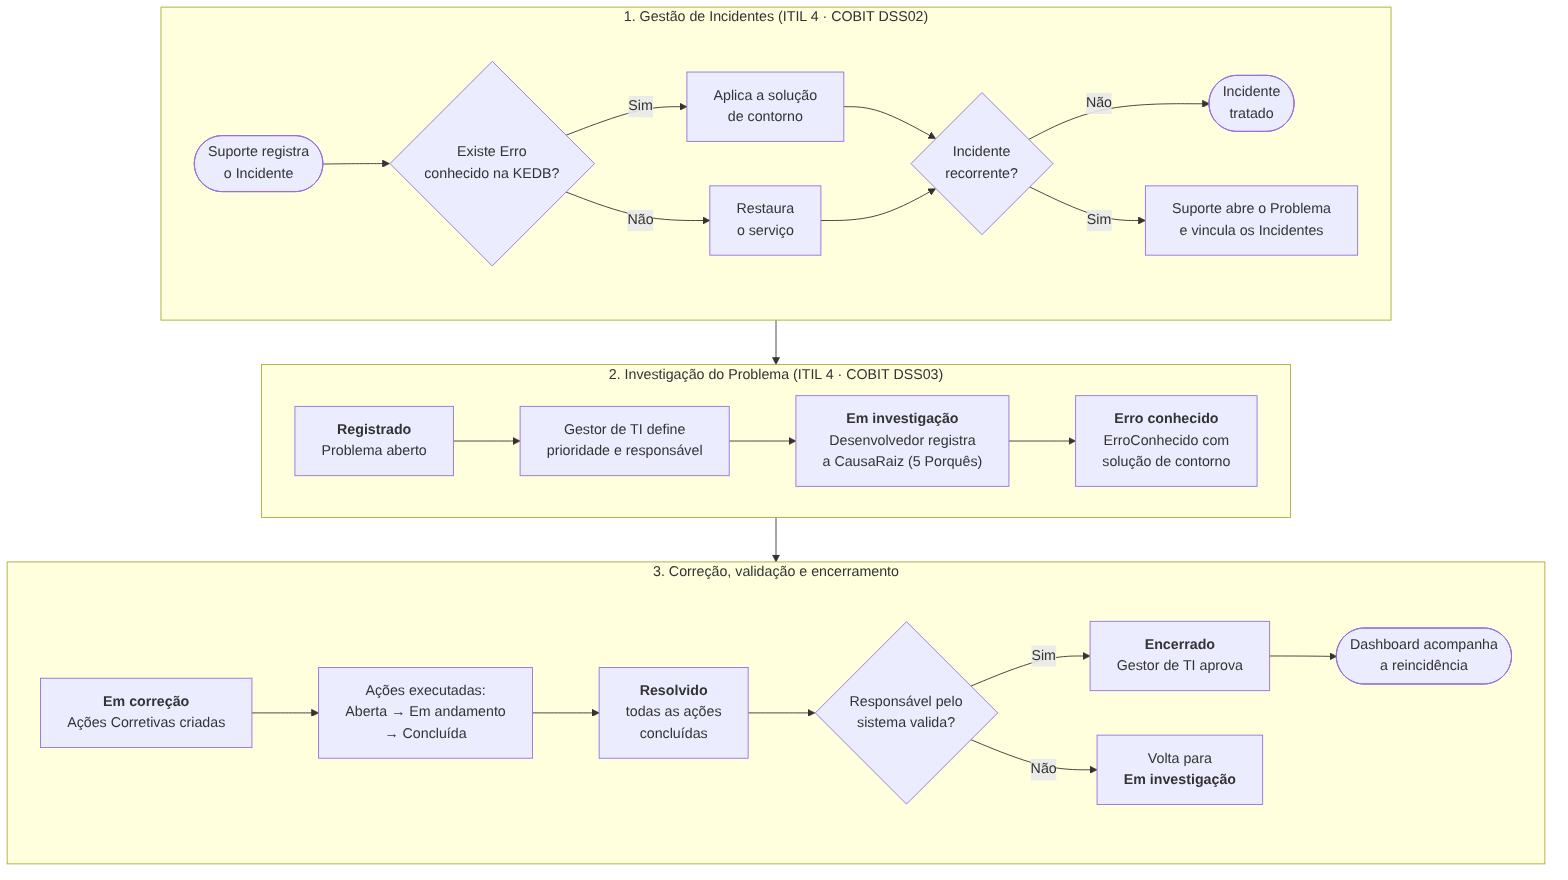
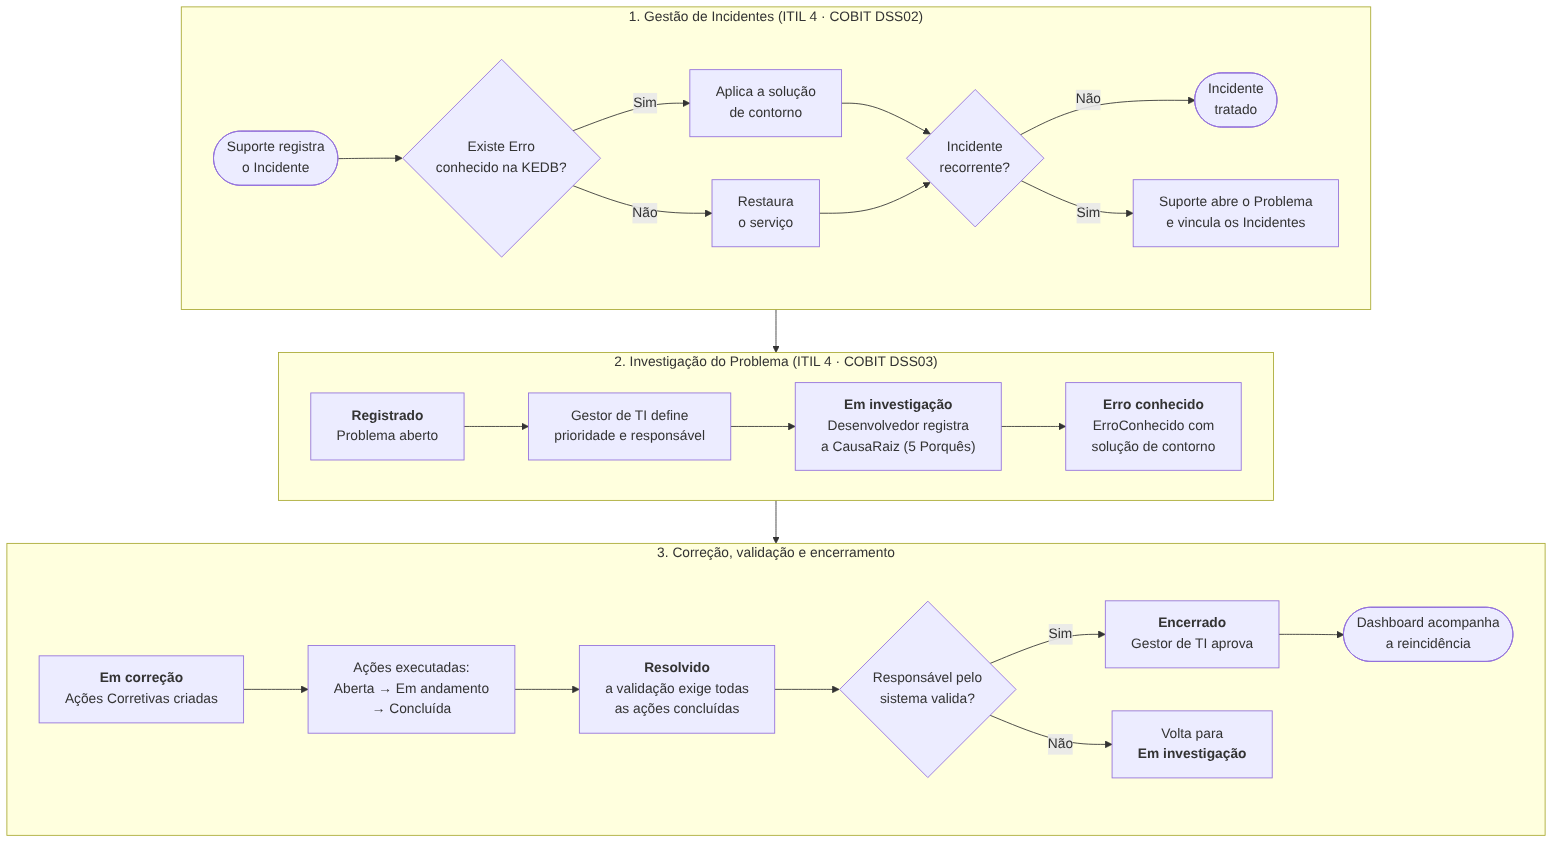
fix(auditoria): contagem de ocorrências no detalhe (RF12) e diagramas alinhados ao sistema
- Detalhe do Problema mostra a quantidade de Incidentes vinculados (cartão e aba), com teste.
- Fluxo: a validação exige todas as ações concluídas (regra de validar_solucao).
- ER: usuário do HistóricoStatus opcional e descrição da ação como texto, como nos modelos.
- EQUIPE.md: responsabilidades de F1 e F2 conforme o que foi implementado.
- README dos diagramas com a numeração das figuras do documento final; Python 3.13.

Claude-Session: https://claude.ai/code/session_018648CV4fji4RfXxjFqXXkM

diff --git a/problemas/templates/problemas/detalhe.html b/problemas/templates/problemas/detalhe.html
@@ -108,6 +108,13 @@
         <strong>Responsável:</strong><br>
         {{ problema.responsavel|default:"Não atribuído" }}
       </div>
+
+      <!-- RF12: contagem de ocorrências (Incidentes vinculados ao Problema) -->
+      <div class="col-md-4 mb-2">
+        <strong>Ocorrências:</strong><br>
+        <span id="contagem-ocorrencias">{{ problema.quantidade_incidentes }}</span>
+        Incidente{{ problema.quantidade_incidentes|pluralize }} vinculado{{ problema.quantidade_incidentes|pluralize }}
+      </div>
     </div>
   </div>
 </div>
@@ -121,7 +128,7 @@
             data-bs-target="#incidentes"
             type="button"
             role="tab">
-      Incidentes vinculados
+      Incidentes vinculados ({{ problema.quantidade_incidentes }})
     </button>
   </li>
 

diff --git a/problemas/test_mvp.py b/problemas/test_mvp.py
@@ -571,6 +571,16 @@ class BackendMvpTests(TestCase):
             404,
         )
 
+    def test_detalhe_mostra_contagem_de_ocorrencias(self):
+        """RF12: o detalhe exibe quantos Incidentes estão vinculados ao Problema."""
+        self.client.force_login(self.responsavel)
+        resposta = self.client.get(reverse("problemas:detalhe", args=[self.problema.pk]))
+        quantidade = self.problema.incidentes.count()
+        self.assertGreater(quantidade, 0)
+        self.assertEqual(resposta.context["problema"].quantidade_incidentes, quantidade)
+        self.assertContains(resposta, f'<span id="contagem-ocorrencias">{quantidade}</span>')
+        self.assertContains(resposta, f"Incidentes vinculados ({quantidade})")
+
     def test_encerramento_revalida_acao_criada_apos_validacao_do_formulario(self):
         self.resolver()
         self.concluir(self.acao())

diff --git a/docs/EQUIPE.md b/docs/EQUIPE.md
@@ -15,8 +15,8 @@
 
 ## Responsabilidades por função
 
-- **F1 - Líder técnico e arquiteto:** stack, repositório, arquitetura, login e perfis, módulo de Problemas e ciclo de status, histórico/auditoria, indicadores, aprovação de encerramento, deploy.
-- **F2 - Back-end e modelo de dados:** modelo de dados, Incidentes, vínculo incidente-problema, causa raiz (5 Porquês), ações corretivas, KEDB, alerta de recorrência.
+- **F1 - Líder técnico e arquiteto:** stack, repositório, arquitetura, login e perfis, controle de acesso, integração contínua, revisão e integração do código, dados de demonstração, documentação técnica e deploy.
+- **F2 - Back-end e modelo de dados:** modelo de dados, Incidentes, Problemas e ciclo de status, vínculo incidente-problema, causa raiz (5 Porquês), ações corretivas, KEDB, histórico/auditoria, validação da solução, indicadores, alerta de recorrência e gestão de usuários.
 - **F3 - Front-end e interface:** protótipo das telas, telas base e navegação por perfil, integração das telas às views, dashboard, refinamentos de interface, vídeo de reserva (com a F1).
 - **F4 - Requisitos e documentação:** descrição do problema, público-alvo e perfis, funcionalidades por módulo (MVP), diagramas em Mermaid, fechamento da documentação.
 - **F5 - Governança:** conceitos de governança e tabela conceito → funcionalidade, matriz RACI, "conceitos aplicados", referências.

diff --git a/docs/diagramas/README.md b/docs/diagramas/README.md
@@ -1,12 +1,12 @@
 # Diagramas da versão final
 
-Código-fonte em Mermaid e imagem exportada de cada diagrama da documentação final (Seção 6).
+Código-fonte em Mermaid e imagem exportada de cada diagrama da documentação final (Seções 5 e 6).
 
 | Arquivo | Diagrama | Figura |
 |---|---|---|
-| `fluxo.mmd` | Fluxo do processo, em três etapas: incidentes (DSS02), investigação (DSS03) e correção/validação/encerramento | Figura 1 |
-| `er.mmd` | Entidade-relacionamento, com `validado_por_id` (RF13) e CausaRaiz/ErroConhecido 1:1 | Figura 2 |
-| `casos.mmd` | Casos de uso dos quatro perfis, com RF13, RF18, RF25, RF26 e RF29 | Figura 3 |
+| `fluxo.mmd` | Fluxo do processo, em três etapas: incidentes (DSS02), investigação (DSS03) e correção/validação/encerramento | Figura 1 (Seção 5.1) |
+| `casos.mmd` | Casos de uso dos quatro perfis, com RF13, RF18, RF25, RF26 e RF29 | Figura 2 (Seção 5.3) |
+| `er.mmd` | Entidade-relacionamento, com `validado_por_id` (RF13) e CausaRaiz/ErroConhecido 1:1 | Figura 3 (Seção 6.3) |
 
 Mudanças em relação ao planejamento: o fluxo não tem mais o atalho que pulava "Erro conhecido" (o status avança um passo por vez), e a rejeição da solução pelo Responsável pelo sistema devolve o Problema para "Em investigação", como o sistema faz.
 

diff --git a/README.md b/README.md
@@ -21,7 +21,7 @@ Relação central: **um Problema se relaciona com vários Incidentes.**
 
 | Camada | Tecnologia |
 |---|---|
-| Linguagem | Python 3.12+ (esta entrega validada com 3.14.9) |
+| Linguagem | Python 3.13 no CI, no Docker e no Render (funciona a partir do 3.12) |
 | Framework | **Django 5.2.18 (LTS)** |
 | Interface | Templates Django, Bootstrap 5 (CDN), HTMX (opcional), Chart.js (dashboard) |
 | Banco | SQLite (desenvolvimento) / PostgreSQL (produção, via `DATABASE_URL` + dj-database-url) |
